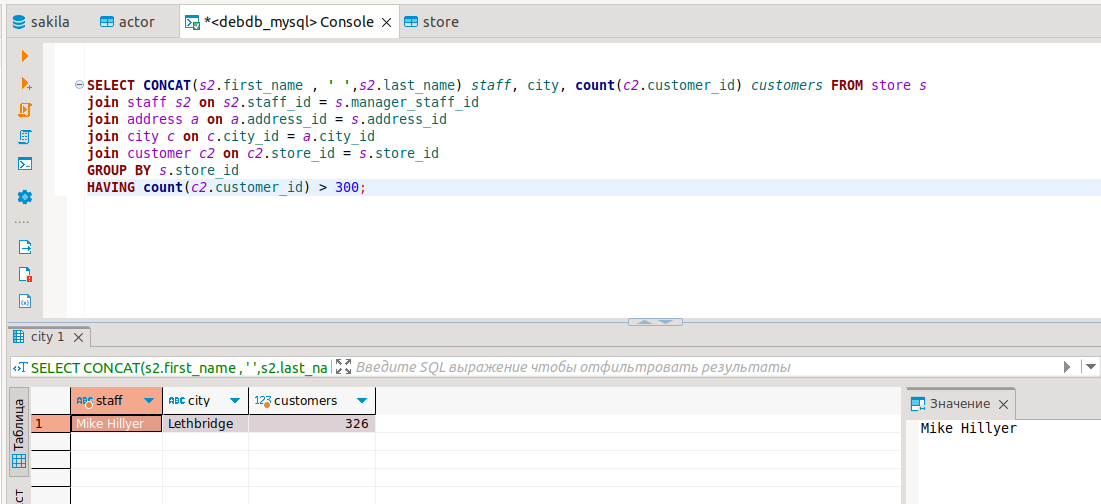
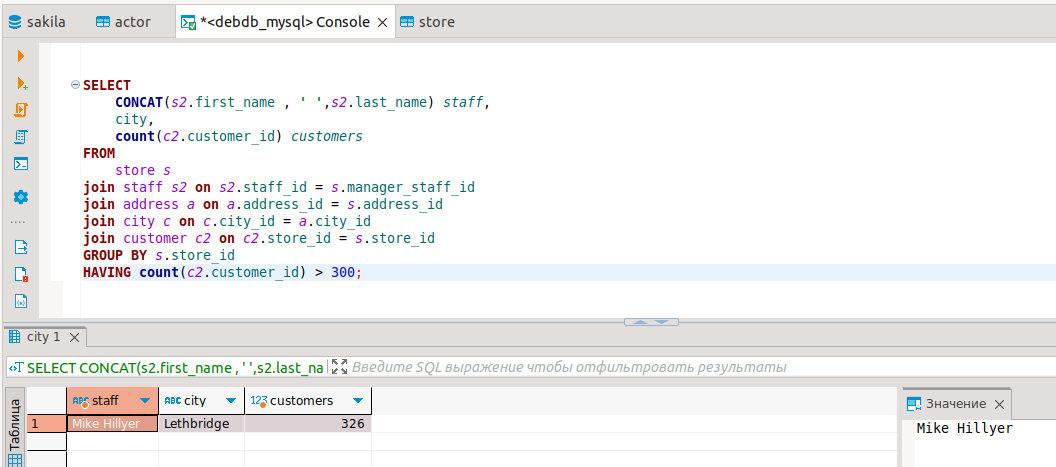
fix

Changed region(s): [[0.0, 0.0, 1.0, 1.0], [0.0625, 0.1499, 0.8438, 0.5996]]

diff --git a/README.md b/README.md
@@ -7,14 +7,18 @@
 ```
 sql-запрос для задания 1
 
-SELECT CONCAT(s2.first_name , ' ',s2.last_name) staff, city, count(c2.customer_id) customers FROM store s
+SELECT 
+	CONCAT(s2.first_name , ' ',s2.last_name) staff, 
+	city, 
+	count(c2.customer_id) customers 
+FROM 
+	store s
 join staff s2 on s2.staff_id = s.manager_staff_id 
 join address a on a.address_id = s.address_id 
 join city c on c.city_id = a.city_id 
 join customer c2 on c2.store_id = s.store_id 
 GROUP BY s.store_id 
 HAVING count(c2.customer_id) > 300;
-
 
 ```
 
